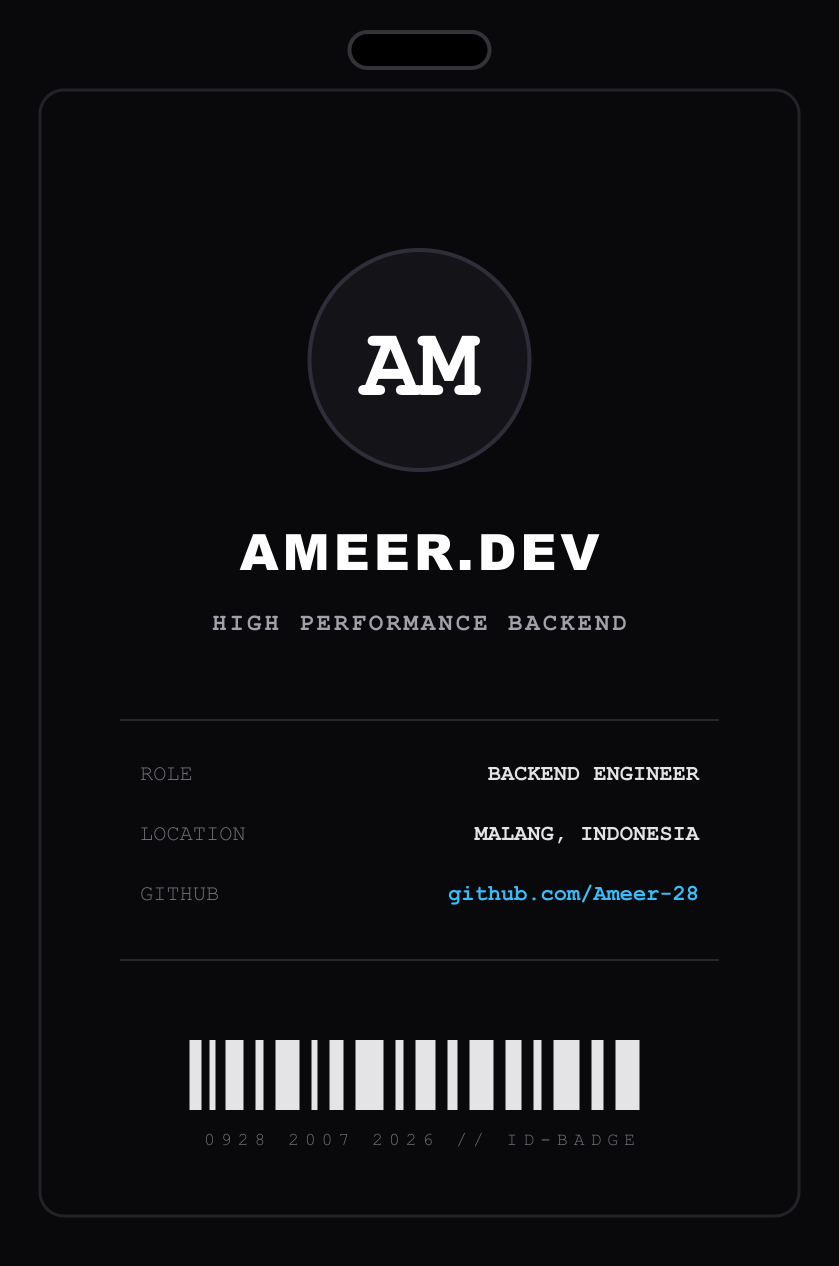
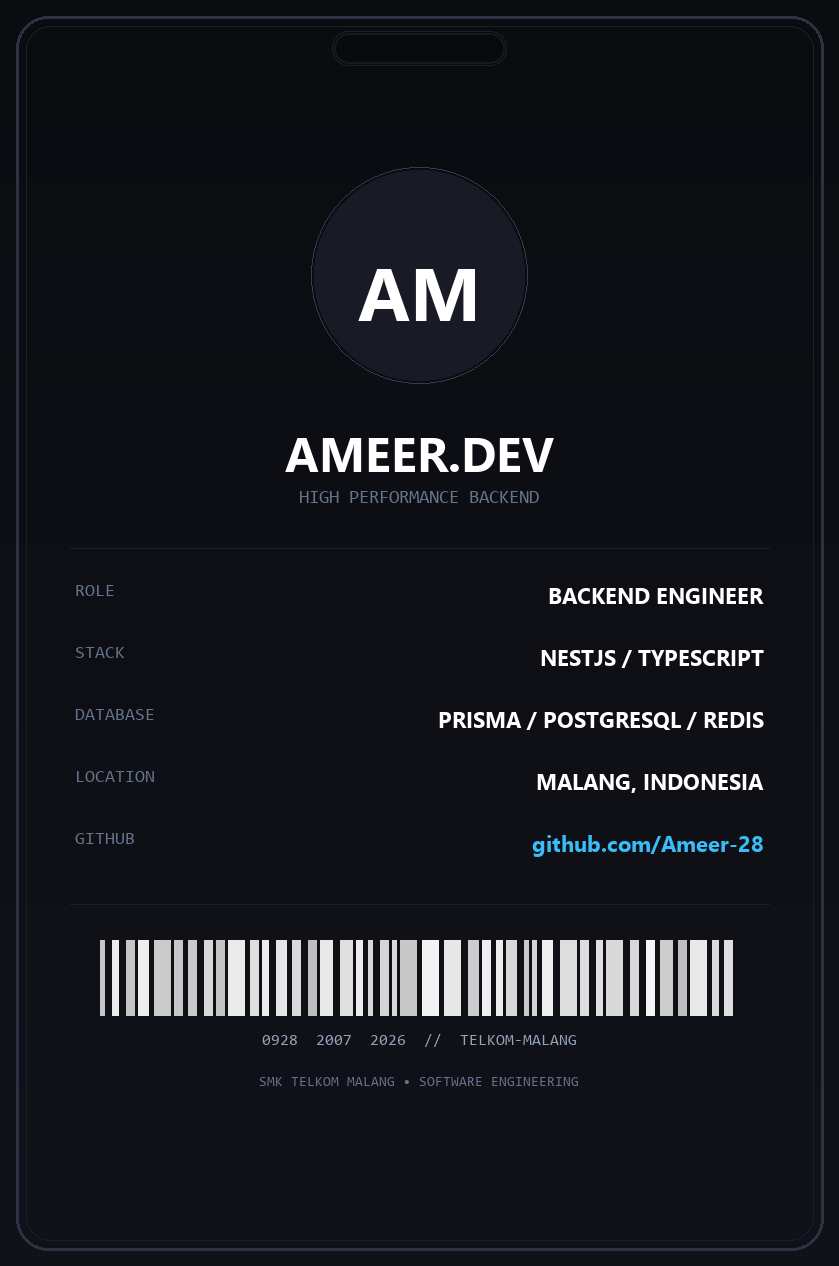
feat: lock dark theme, remove theme toggle, scale lanyard card proportionally, and update card design with centered photo

diff --git a/src/components/sections/tech-marquee.tsx b/src/components/sections/tech-marquee.tsx
@@ -19,7 +19,7 @@ export function TechMarquee() {
   const logos: LogoItem[] = [
     {
       node: (
-        <div className="flex items-center gap-2.5 px-4 py-2 rounded-full bg-white/90 dark:bg-neutral-900/90 border border-neutral-200/90 dark:border-white/10 text-neutral-800 dark:text-white font-mono text-xs font-semibold hover:border-neutral-400 dark:hover:border-white/30 transition-colors shadow-2xs">
+        <div className="flex items-center gap-2.5 px-4 py-2 rounded-full bg-neutral-900/90 border border-white/10 text-white font-mono text-xs font-semibold hover:border-white/30 transition-colors shadow-2xs">
           <Server className="h-4 w-4 text-rose-400" />
           <span>NestJS</span>
         </div>
@@ -28,7 +28,7 @@ export function TechMarquee() {
     },
     {
       node: (
-        <div className="flex items-center gap-2.5 px-4 py-2 rounded-full bg-white/90 dark:bg-neutral-900/90 border border-neutral-200/90 dark:border-white/10 text-neutral-800 dark:text-white font-mono text-xs font-semibold hover:border-neutral-400 dark:hover:border-white/30 transition-colors shadow-2xs">
+        <div className="flex items-center gap-2.5 px-4 py-2 rounded-full bg-neutral-900/90 border border-white/10 text-white font-mono text-xs font-semibold hover:border-white/30 transition-colors shadow-2xs">
           <Code2 className="h-4 w-4 text-blue-400" />
           <span>TypeScript</span>
         </div>
@@ -37,7 +37,7 @@ export function TechMarquee() {
     },
     {
       node: (
-        <div className="flex items-center gap-2.5 px-4 py-2 rounded-full bg-white/90 dark:bg-neutral-900/90 border border-neutral-200/90 dark:border-white/10 text-neutral-800 dark:text-white font-mono text-xs font-semibold hover:border-neutral-400 dark:hover:border-white/30 transition-colors shadow-2xs">
+        <div className="flex items-center gap-2.5 px-4 py-2 rounded-full bg-neutral-900/90 border border-white/10 text-white font-mono text-xs font-semibold hover:border-white/30 transition-colors shadow-2xs">
           <Database className="h-4 w-4 text-sky-400" />
           <span>PostgreSQL</span>
         </div>
@@ -46,7 +46,7 @@ export function TechMarquee() {
     },
     {
       node: (
-        <div className="flex items-center gap-2.5 px-4 py-2 rounded-full bg-white/90 dark:bg-neutral-900/90 border border-neutral-200/90 dark:border-white/10 text-neutral-800 dark:text-white font-mono text-xs font-semibold hover:border-neutral-400 dark:hover:border-white/30 transition-colors shadow-2xs">
+        <div className="flex items-center gap-2.5 px-4 py-2 rounded-full bg-neutral-900/90 border border-white/10 text-white font-mono text-xs font-semibold hover:border-white/30 transition-colors shadow-2xs">
           <Layers className="h-4 w-4 text-emerald-400" />
           <span>Prisma ORM</span>
         </div>
@@ -55,7 +55,7 @@ export function TechMarquee() {
     },
     {
       node: (
-        <div className="flex items-center gap-2.5 px-4 py-2 rounded-full bg-white/90 dark:bg-neutral-900/90 border border-neutral-200/90 dark:border-white/10 text-neutral-800 dark:text-white font-mono text-xs font-semibold hover:border-neutral-400 dark:hover:border-white/30 transition-colors shadow-2xs">
+        <div className="flex items-center gap-2.5 px-4 py-2 rounded-full bg-neutral-900/90 border border-white/10 text-white font-mono text-xs font-semibold hover:border-white/30 transition-colors shadow-2xs">
           <Cpu className="h-4 w-4 text-red-400" />
           <span>Redis</span>
         </div>
@@ -64,7 +64,7 @@ export function TechMarquee() {
     },
     {
       node: (
-        <div className="flex items-center gap-2.5 px-4 py-2 rounded-full bg-white/90 dark:bg-neutral-900/90 border border-neutral-200/90 dark:border-white/10 text-neutral-800 dark:text-white font-mono text-xs font-semibold hover:border-neutral-400 dark:hover:border-white/30 transition-colors shadow-2xs">
+        <div className="flex items-center gap-2.5 px-4 py-2 rounded-full bg-neutral-900/90 border border-white/10 text-white font-mono text-xs font-semibold hover:border-white/30 transition-colors shadow-2xs">
           <Boxes className="h-4 w-4 text-cyan-400" />
           <span>Docker</span>
         </div>
@@ -73,7 +73,7 @@ export function TechMarquee() {
     },
     {
       node: (
-        <div className="flex items-center gap-2.5 px-4 py-2 rounded-full bg-white/90 dark:bg-neutral-900/90 border border-neutral-200/90 dark:border-white/10 text-neutral-800 dark:text-white font-mono text-xs font-semibold hover:border-neutral-400 dark:hover:border-white/30 transition-colors shadow-2xs">
+        <div className="flex items-center gap-2.5 px-4 py-2 rounded-full bg-neutral-900/90 border border-white/10 text-white font-mono text-xs font-semibold hover:border-white/30 transition-colors shadow-2xs">
           <Globe className="h-4 w-4 text-white" />
           <span>Next.js</span>
         </div>
@@ -82,7 +82,7 @@ export function TechMarquee() {
     },
     {
       node: (
-        <div className="flex items-center gap-2.5 px-4 py-2 rounded-full bg-white/90 dark:bg-neutral-900/90 border border-neutral-200/90 dark:border-white/10 text-neutral-800 dark:text-white font-mono text-xs font-semibold hover:border-neutral-400 dark:hover:border-white/30 transition-colors shadow-2xs">
+        <div className="flex items-center gap-2.5 px-4 py-2 rounded-full bg-neutral-900/90 border border-white/10 text-white font-mono text-xs font-semibold hover:border-white/30 transition-colors shadow-2xs">
           <Terminal className="h-4 w-4 text-amber-400" />
           <span>REST API</span>
         </div>
@@ -91,7 +91,7 @@ export function TechMarquee() {
     },
     {
       node: (
-        <div className="flex items-center gap-2.5 px-4 py-2 rounded-full bg-white/90 dark:bg-neutral-900/90 border border-neutral-200/90 dark:border-white/10 text-neutral-800 dark:text-white font-mono text-xs font-semibold hover:border-neutral-400 dark:hover:border-white/30 transition-colors shadow-2xs">
+        <div className="flex items-center gap-2.5 px-4 py-2 rounded-full bg-neutral-900/90 border border-white/10 text-white font-mono text-xs font-semibold hover:border-white/30 transition-colors shadow-2xs">
           <ShieldCheck className="h-4 w-4 text-emerald-400" />
           <span>JWT & OAuth</span>
         </div>
@@ -100,7 +100,7 @@ export function TechMarquee() {
     },
     {
       node: (
-        <div className="flex items-center gap-2.5 px-4 py-2 rounded-full bg-white/90 dark:bg-neutral-900/90 border border-neutral-200/90 dark:border-white/10 text-neutral-800 dark:text-white font-mono text-xs font-semibold hover:border-neutral-400 dark:hover:border-white/30 transition-colors shadow-2xs">
+        <div className="flex items-center gap-2.5 px-4 py-2 rounded-full bg-neutral-900/90 border border-white/10 text-white font-mono text-xs font-semibold hover:border-white/30 transition-colors shadow-2xs">
           <Zap className="h-4 w-4 text-yellow-400" />
           <span>CI/CD Automation</span>
         </div>
@@ -112,7 +112,7 @@ export function TechMarquee() {
   return (
     <section
       aria-label="Core Backend Technologies Ticker"
-      className="w-full border-y border-neutral-200 dark:border-white/10 bg-neutral-100/60 dark:bg-[#070709] py-4 sm:py-5 overflow-hidden relative select-none"
+      className="w-full border-y border-white/10 bg-[#070709] py-4 sm:py-5 overflow-hidden relative select-none"
     >
       <LogoLoop
         logos={logos}

diff --git a/src/components/layout/navbar.tsx b/src/components/layout/navbar.tsx
@@ -3,7 +3,6 @@
 import * as React from "react";
 import Link from "next/link";
 import { Button } from "@/components/ui/button";
-import { ThemeToggle } from "@/components/layout/theme-toggle";
 import GooeyNav from "@/components/ui/gooey-nav";
 import { profileData } from "@/data/profile";
 import { Menu, X, FileText } from "lucide-react";
@@ -79,7 +78,7 @@ export function Navbar() {
     <header className="sticky top-3.5 sm:top-5 z-50 w-full px-3 sm:px-6 pointer-events-none">
       <div className="mx-auto w-full md:w-fit max-w-sm md:max-w-4xl">
         {/* Floating Capsule Navbar (Bayu Raja Syah Avant-Garde Style) */}
-        <div className="pointer-events-auto rounded-full border border-neutral-200/80 dark:border-white/15 bg-white/90 dark:bg-black/85 backdrop-blur-md shadow-lg dark:shadow-[0_12px_32px_rgba(0,0,0,0.8)] transition-all flex items-center justify-between gap-3 sm:gap-6 px-4 sm:px-5 py-1.5 sm:py-2 overflow-hidden">
+        <div className="pointer-events-auto rounded-full border border-white/15 bg-black/85 backdrop-blur-md shadow-[0_12px_32px_rgba(0,0,0,0.8)] transition-all flex items-center justify-between gap-3 sm:gap-6 px-4 sm:px-5 py-1.5 sm:py-2 overflow-hidden">
           {/* Brand */}
           <Link
             href="/"
@@ -109,29 +108,27 @@ export function Navbar() {
 
           {/* Divider */}
           <div
-            className="h-4 w-px bg-neutral-200 dark:bg-white/15 hidden md:block"
+            className="h-4 w-px bg-white/15 hidden md:block"
             aria-hidden="true"
           />
 
-          {/* Desktop Actions: Theme Toggle + High-contrast Pill Download CV */}
+          {/* Desktop Actions: Download CV */}
           <div className="hidden md:flex items-center gap-2.5">
-            <ThemeToggle />
             <Button
               variant="primary"
               size="sm"
               href={profileData.cv.url}
               download
               isExternal
-              className="font-mono text-xs rounded-full px-4 h-8 bg-black text-white hover:bg-neutral-800 dark:bg-white dark:text-black dark:hover:bg-neutral-200 transition-all font-semibold shadow-xs"
+              className="font-mono text-xs rounded-full px-4 h-8 bg-white text-black hover:bg-neutral-200 transition-all font-semibold shadow-xs"
             >
               <FileText className="h-3.5 w-3.5 mr-1" />
               Download CV
             </Button>
           </div>
 
-          {/* Mobile Header Controls (Theme Toggle + Menu Button) */}
+          {/* Mobile Header Controls (Menu Button) */}
           <div className="flex items-center gap-1.5 md:hidden">
-            <ThemeToggle />
             <button
               type="button"
               aria-label={isOpen ? "Close navigation menu" : "Open navigation menu"}
@@ -151,7 +148,7 @@ export function Navbar() {
             id="mobile-navigation"
             role="region"
             aria-label="Mobile Navigation Menu"
-            className="pointer-events-auto md:hidden mt-2 p-4 rounded-2xl border border-neutral-200/80 dark:border-white/15 bg-white/95 dark:bg-black/95 backdrop-blur-xl shadow-2xl space-y-4 animate-in fade-in-0 zoom-in-95 duration-150"
+            className="pointer-events-auto md:hidden mt-2 p-4 rounded-2xl border border-white/15 bg-black/95 backdrop-blur-xl shadow-2xl space-y-4 animate-in fade-in-0 zoom-in-95 duration-150"
           >
             <nav aria-label="Mobile Navigation">
               <ul className="flex flex-col space-y-1">
@@ -160,7 +157,7 @@ export function Navbar() {
                     <a
                       href={item.href}
                       onClick={closeMenu}
-                      className="block px-3 py-2 text-sm font-medium text-foreground hover:text-foreground hover:bg-neutral-100 dark:hover:bg-white/10 rounded-xl transition-colors focus-visible:outline-none focus-visible:ring-2 focus-visible:ring-ring"
+                      className="block px-3 py-2 text-sm font-medium text-foreground hover:text-foreground hover:bg-white/10 rounded-xl transition-colors focus-visible:outline-none focus-visible:ring-2 focus-visible:ring-ring"
                     >
                       {item.label}
                     </a>
@@ -169,7 +166,7 @@ export function Navbar() {
               </ul>
             </nav>
 
-            <div className="pt-3 border-t border-neutral-200 dark:border-white/10">
+            <div className="pt-3 border-t border-white/10">
               <Button
                 variant="primary"
                 size="md"
@@ -177,7 +174,7 @@ export function Navbar() {
                 download
                 isExternal
                 onClick={closeMenu}
-                className="w-full justify-center font-mono text-xs rounded-full bg-black text-white hover:bg-neutral-800 dark:bg-white dark:text-black dark:hover:bg-neutral-200 h-9 font-semibold"
+                className="w-full justify-center font-mono text-xs rounded-full bg-white text-black hover:bg-neutral-200 h-9 font-semibold"
               >
                 <FileText className="h-3.5 w-3.5 mr-1.5" />
                 Download CV

diff --git a/src/components/ui/lanyard-3d.tsx b/src/components/ui/lanyard-3d.tsx
@@ -221,9 +221,9 @@ function Band({
   texture.wrapS = texture.wrapT = THREE.RepeatWrapping;
 
   const { width: vpWidth, height: vpHeight } = useThree((state) => state.viewport);
-  const anchorX = isMobile ? 0 : Math.min(4.0, Math.max(3.1, vpWidth * 0.32));
-  const anchorY = isMobile ? 2.0 : vpHeight / 2 + 0.6;
-  const cardScale = isMobile ? 1.8 : 2.05;
+  const anchorX = isMobile ? 0 : Math.min(4.0, Math.max(3.0, vpWidth * 0.3));
+  const anchorY = isMobile ? 2.5 : vpHeight / 2 + 0.8;
+  const cardScale = isMobile ? 2.1 : 2.45;
 
   return (
     <>
@@ -244,10 +244,10 @@ function Band({
           {...segmentProps}
           type={dragged ? "kinematicPosition" : "dynamic"}
         >
-          <CuboidCollider args={[0.65, 0.95, 0.01]} />
+          <CuboidCollider args={[0.75, 1.05, 0.01]} />
           <group
             scale={cardScale}
-            position={[0, -1.0, -0.05]}
+            position={[0, -1.1, -0.05]}
             onPointerOver={() => hover(true)}
             onPointerOut={() => hover(false)}
             onPointerUp={(e: any) => {
@@ -304,7 +304,7 @@ export default function Lanyard3D({
   frontImage = "/images/id-card-front.png",
   backImage = "/images/id-card-back.png",
   lanyardImage = "/assets/lanyard/lanyard_amin.png",
-  lanyardWidth = 0.55,
+  lanyardWidth = 0.62,
   className = "",
 }: Lanyard3DProps) {
   const [isMobile, setIsMobile] = useState(false);

diff --git a/src/components/ui/gooey-nav.css b/src/components/ui/gooey-nav.css
@@ -26,45 +26,15 @@
     1
   );
 
-  /* Light mode defaults */
-  --gooey-nav-text: #52525b;
-  --gooey-nav-text-hover: #09090b;
-  --gooey-nav-text-active: #ffffff;
-  --gooey-pill-bg: #09090b;
-  --gooey-filter-bg: #ffffff;
-  --gooey-blend-mode: darken;
-  --color-1: #09090b;
-  --color-2: #18181b;
-  --color-3: #27272a;
-  --color-4: #3f3f46;
-}
-
-:is(.dark) {
+  /* Permanent dark theme defaults */
   --gooey-nav-text: rgba(255, 255, 255, 0.7);
   --gooey-nav-text-hover: #ffffff;
   --gooey-nav-text-active: #09090b;
   --gooey-pill-bg: #ffffff;
-  --gooey-filter-bg: #000000;
-  --gooey-blend-mode: lighten;
   --color-1: #ffffff;
   --color-2: #f4f4f5;
   --color-3: #e4e4e7;
   --color-4: #d4d4d8;
-}
-
-@media (prefers-color-scheme: dark) {
-  :root:not(.light) {
-    --gooey-nav-text: rgba(255, 255, 255, 0.7);
-    --gooey-nav-text-hover: #ffffff;
-    --gooey-nav-text-active: #09090b;
-    --gooey-pill-bg: #ffffff;
-    --gooey-filter-bg: #000000;
-    --gooey-blend-mode: lighten;
-    --color-1: #ffffff;
-    --color-2: #f4f4f5;
-    --color-3: #e4e4e7;
-    --color-4: #d4d4d8;
-  }
 }
 
 .gooey-nav-container {

diff --git a/src/app/layout.tsx b/src/app/layout.tsx
@@ -120,7 +120,7 @@ export default function RootLayout({
     <html
       lang="id"
       suppressHydrationWarning
-      className={`${inter.variable} ${jetbrainsMono.variable} scroll-smooth`}
+      className={`dark ${inter.variable} ${jetbrainsMono.variable} scroll-smooth`}
     >
       <head>
         <script
@@ -129,7 +129,7 @@ export default function RootLayout({
         />
       </head>
       <body className="antialiased min-h-screen bg-background text-foreground font-sans flex flex-col">
-        <ThemeProvider attribute="class" defaultTheme="system" enableSystem>
+        <ThemeProvider attribute="class" defaultTheme="dark" forcedTheme="dark">
           <SkipToContent />
           <Navbar />
           <main id="main-content" className="flex-1 focus:outline-none">

diff --git a/src/components/ui/logo-loop.css b/src/components/ui/logo-loop.css
@@ -3,7 +3,7 @@
 
   --logoloop-gap: 32px;
   --logoloop-logoHeight: 28px;
-  --logoloop-fadeColorAuto: #f4f4f6;
+  --logoloop-fadeColorAuto: #070709;
 }
 
 .logoloop--vertical {
